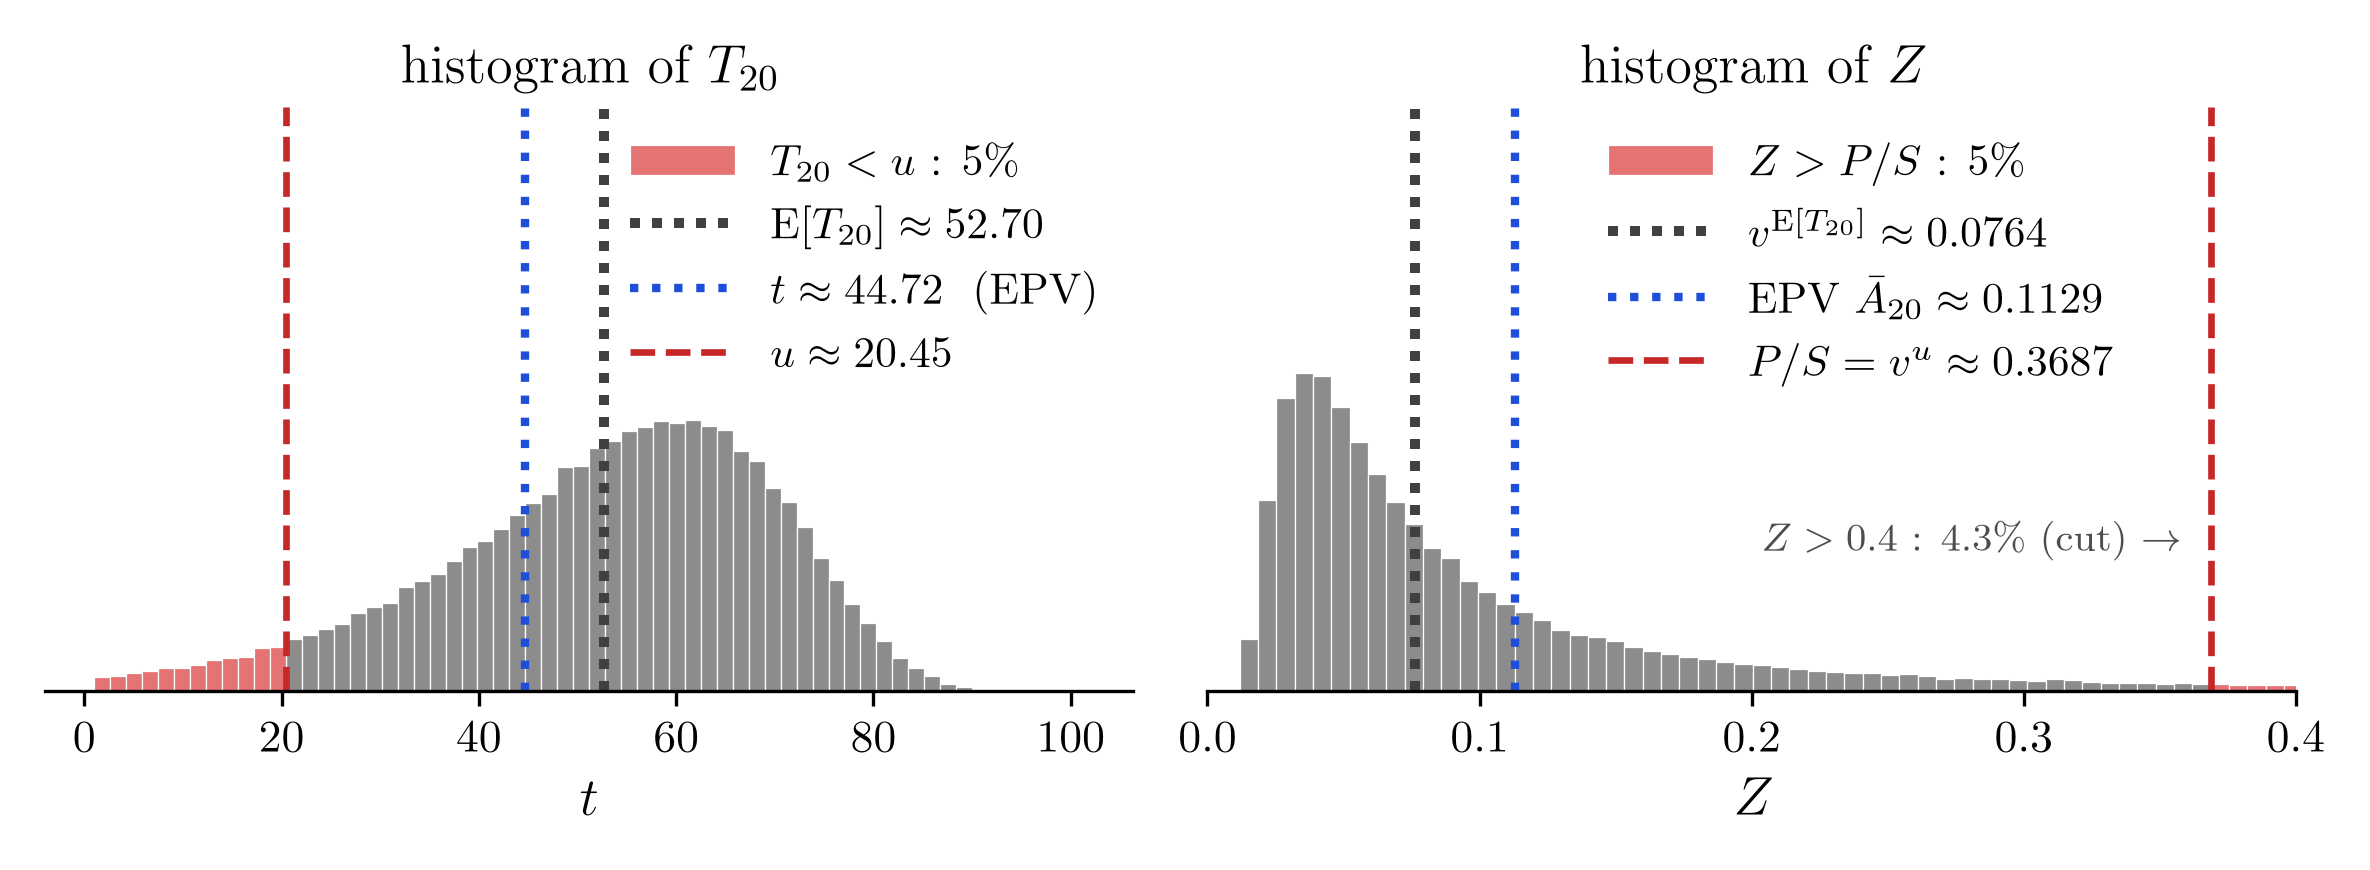
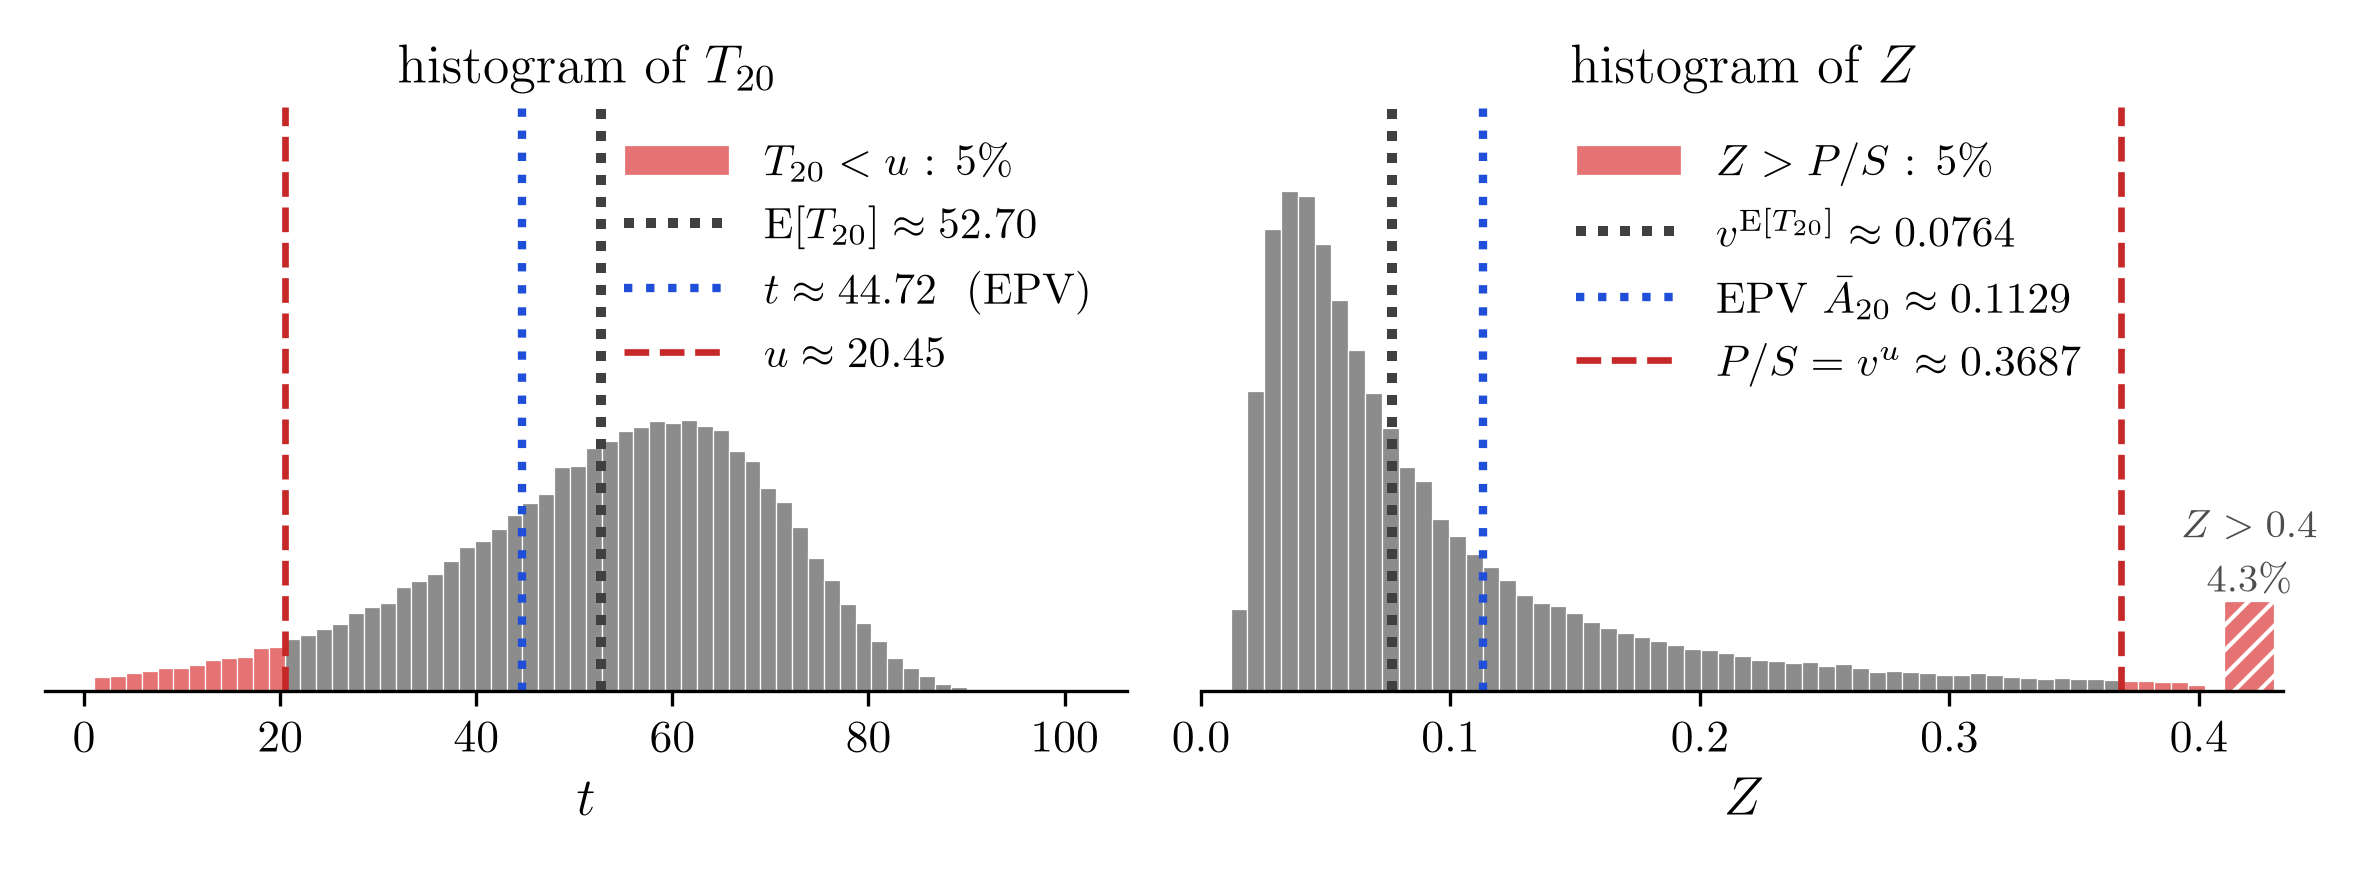
update

diff --git a/docs/posts/05wk-1.html b/docs/posts/05wk-1.html
@@ -189,6 +189,7 @@ window.Quarto = {
 
 <section id="강의영상" class="level1">
 <h1>1. 강의영상</h1>
+<div class="quarto-video ratio ratio-16x9"><iframe data-external="1" src="https://www.youtube.com/embed/playlist?list=PLbsGkl7xUDDA&amp;si=azLr9-_OH5hMQ-qD" title="" frameborder="0" allow="accelerometer; autoplay; clipboard-write; encrypted-media; gyroscope; picture-in-picture" allowfullscreen=""></iframe></div>
 </section>
 <section id="보험료를-얼마로-받아야-하나-2" class="level1">
 <h1>2. 보험료를 얼마로 받아야 하나? (2)</h1>
@@ -280,50 +281,10 @@ S_{20}(44.72) &amp;= \exp\left\{-\frac{0.0003}{\log 1.07}\times 1.07^{20}\times\
 </div>
 <ul>
 <li>가로축은 위 그림처럼 0.4 에서 잘랐다. 0.4 를 넘는 약 <span class="math inline">\(4.3\%\)</span> 는 그림 밖에 있고, 아래의 빨간 넓이 <span class="math inline">\(28.56\%\)</span> 에는 이것까지 들어 있다.</li>
-<li>파란 점선의 값 <span class="math inline">\(\bar{A}_{20} = 0.1129\)</span> 는 <span class="math inline">\(P/S\)</span> 이고, <span class="math inline">\(Z\)</span>의 평균값이다.</li>
 <li>파란 점선의 값 <span class="math inline">\(\bar{A}_{20}\)</span>는 히스토그램이 그리는 <span class="math inline">\(Z\)</span>의 평균값이다. 따라서 파란 선을 기준(0)으로 놓고 히스토그램을 보면, 곧 <span class="math inline">\(Z - \bar{A}_{20}\)</span> 을 보면 그 평균은 0 이다. 손익이 평균적으로 0 이라는 말이 이것이다.</li>
-<li>그러나 파란 점선의 값 <span class="math inline">\(\bar{A}_{20}\)</span>는 히스토그램이 그리는 <span class="math inline">\(Z\)</span>의 중앙값이 아니다. 즉 파란 선을 기준(0)으로 놓고 히스토그램을 볼때, 오른쪽의 넓이는 전체의 <span class="math inline">\(50\%\)</span> 가 아니라 약 <span class="math inline">\(28.56\%\)</span> 다.</li>
+<li>그러나 파란 점선의 값 <span class="math inline">\(\bar{A}_{20}\)</span>가 히스토그램이 그리는 <span class="math inline">\(Z\)</span>의 중앙값은 아니다. 즉 파란 선을 기준(0)으로 놓고 히스토그램을 볼때, 오른쪽의 넓이는 전체의 <span class="math inline">\(50\%\)</span> 가 아니라 약 <span class="math inline">\(28.56\%\)</span> 다.</li>
 </ul>
 <p><code>#</code></p>
-<p><code># 예제2</code> 20세 한 사람만 받는데 망할 확률을 <span class="math inline">\(5\%\)</span> 로 줄이고 싶다. 보험료를 얼마로 받아야 하는가(<span class="math inline">\(i = 0.05\)</span>, <span class="math inline">\(S = 10^8\)</span>). 생존함수는 예제1 과 같다.</p>
-<p><span class="math display">\[S_{20}(t) = \exp\left\{-\frac{B}{\log c}\,c^{20}\left(c^t - 1\right)\right\}, \qquad B = 0.0003,\ c = 1.07\]</span></p>
-<p><code>(풀이)</code></p>
-<p>망할 확률을 <span class="math inline">\(5\%\)</span> 로 셋팅한다.</p>
-<p><span class="math display">\[
-\Pr[SZ &gt; P] = 1 - S_{20}(u) = 0.05
-\]</span></p>
-<p>이제 <span class="math inline">\(S_{20}(u) = 0.95\)</span> 인 <span class="math inline">\(u\)</span> 를 찾는다.</p>
-<p><span class="math display">\[
-\begin{aligned}
-S_{20}(u) = 0.95
-&amp;\iff \exp\left\{-\frac{B}{\log c}\,c^{20}\left(c^u - 1\right)\right\} = 0.95 \\
-&amp;\iff \frac{B}{\log c}\,c^{20}\left(c^u - 1\right) = -\log 0.95 \\
-&amp;\iff c^u = 1 - \frac{\log c}{B c^{20}}\log 0.95 \\
-&amp;\iff u = \frac{1}{\log c}\log\left(1 - \frac{\log c}{B c^{20}}\log 0.95\right)
-\end{aligned}
-\]</span></p>
-<p><span class="math inline">\(B = 0.0003\)</span>, <span class="math inline">\(c = 1.07\)</span> 을 넣으면</p>
-<p><span class="math display">\[
-u = \frac{1}{\log 1.07}\log\left(1 - \frac{\log 1.07}{0.0003 \times 1.07^{20}}\log 0.95\right) = 20.45 \ \text{년}
-\]</span></p>
-<p>따라서</p>
-<p><span class="math display">\[
-P = S v^{u} = 10{,}000 \times 1.05^{-20.45} = 3{,}687 \ \text{만원}
-\]</span></p>
-<p>해석해보자.</p>
-<div class="quarto-figure quarto-figure-center">
-<figure class="figure">
-<p><img src="attachments/05wk_T20_Z20_5pct.png" class="img-fluid quarto-figure quarto-figure-center figure-img" style="width:100.0%"></p>
-</figure>
-</div>
-<ul>
-<li>왼쪽은 <span class="math inline">\(T_{20}\)</span>, 오른쪽은 <span class="math inline">\(Z\)</span> 의 히스토그램이다.</li>
-<li>오른쪽 그림도 가로축을 0.4 에서 잘랐다. 빨간 <span class="math inline">\(5\%\)</span> 가운데 약 <span class="math inline">\(4.3\%\)</span> 는 0.4 밖에 있어서 오른쪽 그림에서는 빨간 막대가 거의 안 보인다. 같은 사람들이 왼쪽 그림에서는 다 보인다.</li>
-<li>선은 세 쌍이다. 빨간 파선은 망할 확률을 <span class="math inline">\(5\%\)</span> 로 맞춘 <span class="math inline">\(u \approx 20.45\)</span> 와 그때의 보험료 <span class="math inline">\(P/S = v^u \approx 0.3687\)</span> 이다. 파란 점선은 EPV <span class="math inline">\(\bar{A}_{20} \approx 0.1129\)</span> 와 그에 대응하는 <span class="math inline">\(t \approx 44.72\)</span> 다. 검은 점선은 03wk-2 에서 본 평균 수명 <span class="math inline">\(\mathrm{E}[T_{20}] \approx 52.70\)</span> 과 <span class="math inline">\(v^{\mathrm{E}[T_{20}]} \approx 0.0764\)</span> 로, 참고로 그렸다.</li>
-<li>왼쪽 그림에서 <span class="math inline">\(T_{20} &lt; u \approx 20.45\)</span> 인 사람들은 40.45세 전에 죽는 사람들이며, 이 경우가 <span class="math inline">\(5\%\)</span> 다.</li>
-<li>오른쪽 그림에서 파란 점선 EPV <span class="math inline">\(\bar{A}_{20} \approx 0.1129\)</span> 에 해당하는 보험료를 받으면 예제1 에서처럼 <span class="math inline">\(28.6\%\)</span> 로 망한다. 이 파란 선을 오른쪽으로 밀어 빨간 선까지 가야 망할 확률이 <span class="math inline">\(5\%\)</span> 가 된다. 그러다 보니 EPV(1,129만원)의 세 배가 넘는 가격까지 밀어야 한다.</li>
-<li>20세가 40.45세 전에 죽는 <span class="math inline">\(5\%\)</span> 의 경우까지 대비하려면 이만큼 받아야 한다. (그렇지만 너무 비싸서 아무도 가입하지 않을 것이다.)</li>
-</ul>
 
 
 </section>

diff --git a/docs/index.html b/docs/index.html
@@ -238,7 +238,7 @@ Author
 </thead>
 <tbody class="list">
 
-<tr data-index="0" data-listing-date-sort="1790640000000" data-listing-file-modified-sort="1790646336000" data-listing-date-modified-sort="NaN" data-listing-reading-time-sort="5" data-listing-word-count-sort="900" data-listing-title-sort="**05wk-1**: 보험급부 (2)" data-listing-filename-sort="05wk-1.qmd">
+<tr data-index="0" data-listing-date-sort="1790640000000" data-listing-file-modified-sort="1790674120466" data-listing-date-modified-sort="NaN" data-listing-reading-time-sort="3" data-listing-word-count-sort="591" data-listing-title-sort="**05wk-1**: 보험급부 (2)" data-listing-filename-sort="05wk-1.qmd">
 <td>
 <span class="listing-date">Sep 29, 2026</span>
 </td>

diff --git a/docs/posts/05wk-2.html b/docs/posts/05wk-2.html
@@ -1,0 +1,2 @@
+<!DOCTYPE html>
+<html xmlns="http://www.w3.org/1999/xhtml" lang="en" xml:lang="en"></html>
